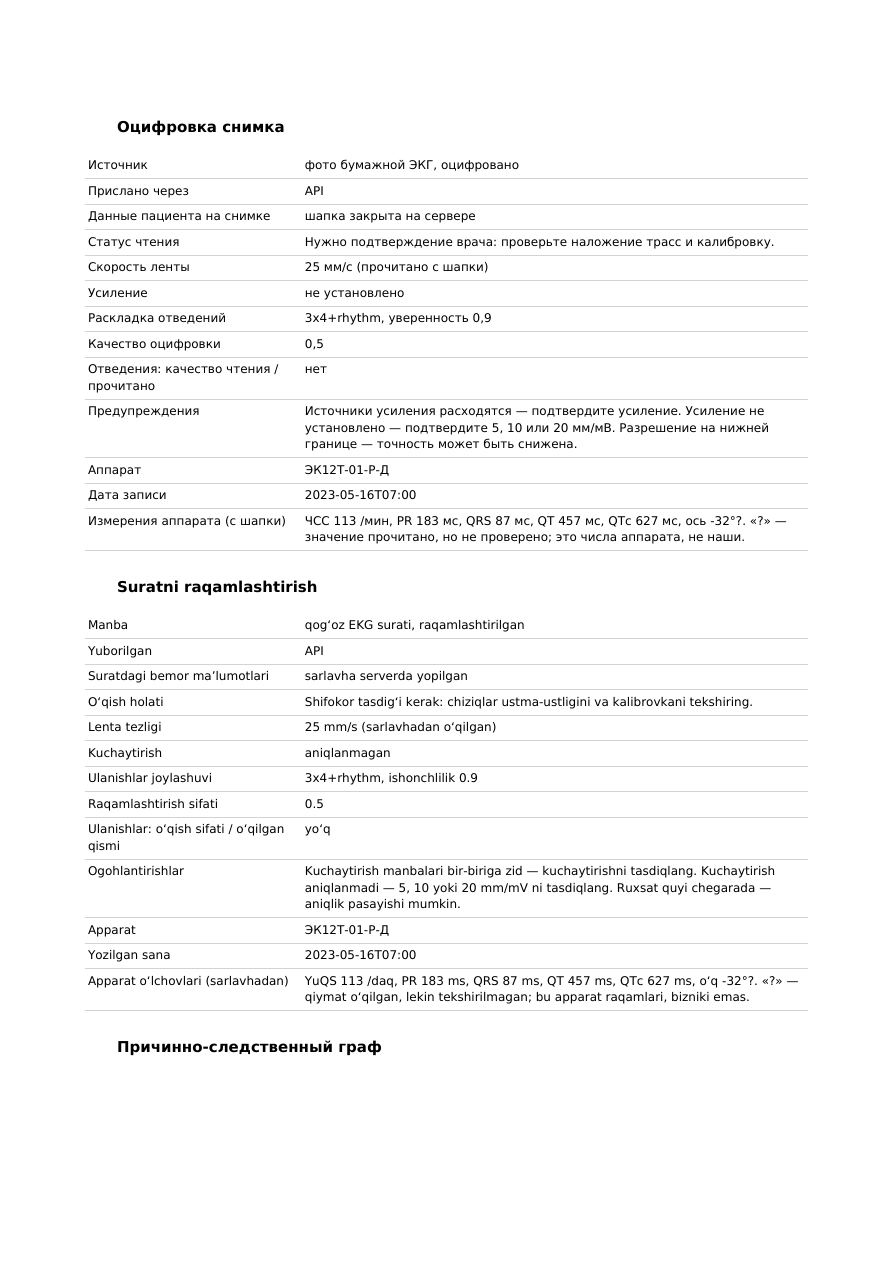
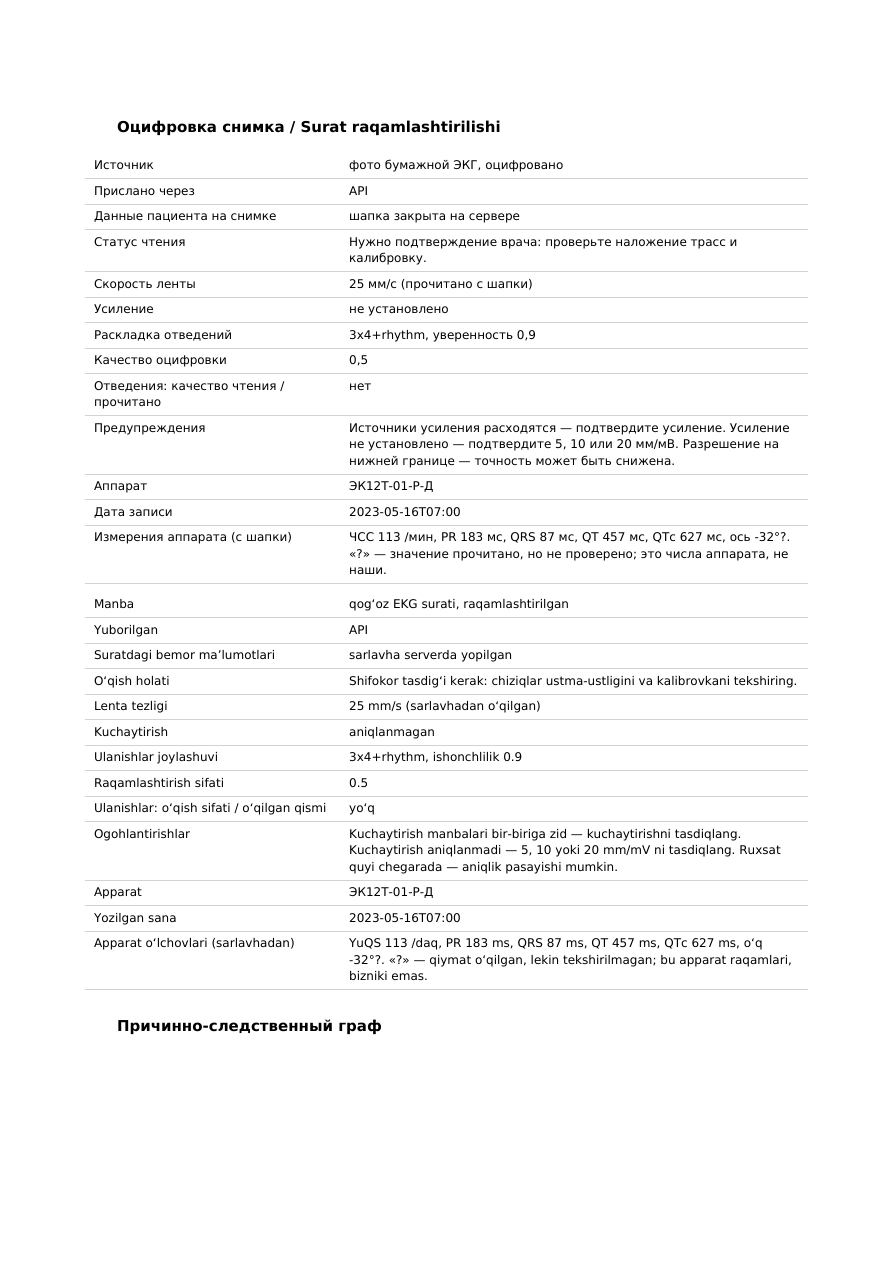
S4: adapter fills Provenance.report_rows (core D184); the service passes the recorder's header to the core (D183); final PDF check 58/58 in PDFium, Poppler, MuPDF
Claude-Session: https://claude.ai/code/session_01HGySTX64bqVYHHvSD3WTWr

Changed region(s): [[0.0907, 0.0926, 0.9071, 0.8337]]

diff --git a/tests/scanner/test_pdf_s4.py b/tests/scanner/test_pdf_s4.py
@@ -48,12 +48,10 @@ def test_the_flags_table_reads_back_in_every_engine(tmp_path, result_factory, sy
 
 
 def test_the_core_report_of_a_scan_opens_everywhere(tmp_path, result_factory, synth_mv):
-    """The doctor's PDF, written by the core from a scanned page as the service sends it. The
-    flags are expected in it once the core prints ``Provenance.report_rows``
-    (reports/scanner/s4/core_integration.diff)."""
+    """The doctor's PDF, written by the core from a scanned page as the service sends it, with
+    every flag in both languages (``Provenance.report_rows``, core D184)."""
     import cv2
 
-    from cardiolens.contracts.signal import Provenance
     from cardiolens.outputs.pdf_report import OVERLAY_NOTE_UZ, write_pdf
     from cardiolens.pipeline import run_pipeline
     from ecgscan.contract.cardiolens_adapter import to_signal_representation
@@ -63,8 +61,6 @@ def test_the_core_report_of_a_scan_opens_everywhere(tmp_path, result_factory, sy
     sig.provenance.overlay_jpeg = cv2.imencode(".jpg", np.full((200, 400, 3), 230, np.uint8))[1].tobytes()
     pdf = tmp_path / "report.pdf"
     write_pdf(run_pipeline(sig), str(pdf))
-    expect = [OVERLAY_NOTE_UZ[:50], "Заключение (RU)", "Xulosa (UZ)"]
-    if "report_rows" in Provenance.model_fields:
-        expect += _expected(res)
+    expect = [OVERLAY_NOTE_UZ[:50], "Заключение (RU)", "Xulosa (UZ)", *_expected(res)]
     out = check(pdf, expect)
     assert out["ok"], {k: v.get("missing", v) for k, v in out["engines"].items()}

diff --git a/reports/scanner/s4/make_report.py b/reports/scanner/s4/make_report.py
@@ -19,6 +19,7 @@ import numpy as np
 from cardiolens.layer1_ingestion import generate_synthetic_ecg
 from cardiolens.outputs.pdf_report import OVERLAY_NOTE_RU, OVERLAY_NOTE_UZ, write_pdf
 from cardiolens.pipeline import run_pipeline
+from cardiolens.telegram.analyze import attach_device_header
 from ecgscan.bench.headers import render_header
 from ecgscan.bench.pdf_check import check
 from ecgscan.bench.render import RenderSpec, render_page
@@ -45,11 +46,14 @@ def main(out: Path) -> int:
     res = scan(page_photo(), hints=ScanHints(client="api"), artifacts_dir=art)
     sig = to_signal_representation(res)
     sig.provenance.overlay_jpeg = (art / "overlay_preview.jpg").read_bytes()
+    attach_device_header(sig, res)                 # as the service does: device_mismatch (D183)
     result = run_pipeline(sig)
     pdf = out / "report.pdf"
     write_pdf(result, str(pdf))
     flags = {lang: scanner_rows(res, lang) for lang in ("ru", "uz")}
     expect = {"overlay": [OVERLAY_NOTE_RU[:60], OVERLAY_NOTE_UZ[:60]], "conclusion": ["Заключение (RU)", "Xulosa (UZ)"]}
+    mismatch = [f for f in result.findings.findings if f.code == "device_mismatch"]
+    expect["device_mismatch"] = [m for f in mismatch for m in (f.label_ru[:40], f.label_uz[:40])]
     for lang, rows in flags.items():
         expect[f"flags_{lang}"] = [s for row in rows for s in row]
     report = check(pdf, [s for v in expect.values() for s in v], out / "pages")

diff --git a/src/ecgscan_service/service.py b/src/ecgscan_service/service.py
@@ -321,14 +321,17 @@ class ScanService:
             raise ScanError(409, f"scan is {row.status}: only an ok or doctor-accepted scan is analysed")
         from cardiolens.api import service as cl_service
         from cardiolens.outputs.conclusion import format_conclusion
+        from cardiolens.telegram.analyze import attach_device_header
         from ecgscan.contract.cardiolens_adapter import to_signal_representation
 
-        sig = to_signal_representation(ScanResult.model_validate(row.result))
+        read = ScanResult.model_validate(row.result)
+        sig = to_signal_representation(read)
         if "trace_overlay_preview" in ((row.result or {}).get("artifacts") or {}):
             try:                     # the page with the read traces, header blanked: the PDF shows it (TZ 18.10)
                 sig.provenance.overlay_jpeg = self.artifact(scan_id, "trace_overlay_preview", actor)[0]
             except ScanError:        # expired: the report goes without the picture
                 pass
+        attach_device_header(sig, read)       # the recorder's printed numbers: device_mismatch (D183)
         analysis_id, result = cl_service.run_and_store(sig, mode=mode, owner=row.owner)
         self.store.set_analysis(scan_id, analysis_id)
         self.store.audit(scan_id, actor, "analyzed", {"analysis_id": analysis_id, "mode": result.report.mode})

diff --git a/src/ecgscan/contract/cardiolens_adapter.py b/src/ecgscan/contract/cardiolens_adapter.py
@@ -17,6 +17,8 @@ from __future__ import annotations
 import numpy as np
 
 from ecgscan.contract.models import DIGITIZED_FLAG, RHYTHM_MISMATCH, STANDARD_LEADS, ScanResult
+from ecgscan.i18n import LANGS
+from ecgscan.report_block import scanner_rows
 
 
 class RejectedScanError(ValueError):
@@ -105,5 +107,7 @@ def to_signal_representation(result: ScanResult):
         signal=signal, sampling_rate_hz=fs, lead_names=list(STANDARD_LEADS), duration_s=n / fs,
         source="image",
         provenance=Provenance(digitized=True, confidence=round(float(result.quality.overall), 3),
-                              lead_windows=windows, sample_mask=_gap_intervals(missing, fs) or None, notes=notes),
+                              lead_windows=windows, sample_mask=_gap_intervals(missing, fs) or None, notes=notes,
+                              # How the photo was read, translated, for the PDF (S4, TZ 18.10, SD-095)
+                              report_rows={lang: scanner_rows(result, lang) for lang in LANGS}),
     )

diff --git a/reports/scanner/s4/report.md b/reports/scanner/s4/report.md
@@ -9,7 +9,7 @@
 |---|---|---|
 | Выгруженный сигнал читается без потерь | CSV и WFDB — **бит в бит**, JSON — тот же объект контракта | `tests/scanner/test_export_s4.py` |
 | PDF открывается на ПК, Android, iOS | PDFium (Chrome, Android), Poppler, MuPDF: **4 страницы у всех, ни одной пустой**. iOS здесь не проверить | [check.json](check.json) |
-| Все флаги видны | **52 из 52** (26 RU + 26 UZ) находят все три движка, при правке ядра | [check.json](check.json), [страница с флагами](flags_page.png) |
+| Все флаги видны | **58 из 58** фраз находят все три движка: 26 RU + 26 UZ строк флагов, расхождение с аппаратом RU и UZ, пояснение к снимку, заключения | [check.json](check.json), [первая страница](first_page.png), [страница с флагами](flags_page.png) |
 
 ## 1. Выгрузка сигнала (SD-094)
 
@@ -32,8 +32,8 @@
 |---|---|
 | Исходный снимок с закрытыми данными пациента | снимок листа с закрытой шапкой (сервер, D136) |
 | Наложение прочитанных трасс | на том же снимке, цвет по качеству, пояснение RU и UZ (ядро, D163) |
-| Извлечённые параметры | строка измерений ядра (сейчас только RU) |
-| Флаги: источник «фото», качество по отведениям, расхождение с аппаратом | таблица «Оцифровка снимка / Suratni raqamlashtirish» — новое. `device_mismatch` — строка ядра |
+| Извлечённые параметры | строка измерений ядра, RU и UZ (D184) |
+| Флаги: источник «фото», качество по отведениям, расхождение с аппаратом | таблица «Оцифровка снимка / Surat raqamlashtirilishi» — новое; расхождение с аппаратом — под строкой измерений и в заключении (ядро, D183) |
 | Заключение RU и UZ | ядро |
 
 Таблица флагов ([как выглядит](flags_page.png)):
@@ -46,13 +46,13 @@
 - предупреждения словами;
 - модель аппарата, дата записи, измерения аппарата с шапки (сомнительные помечены «?»).
 
-**Что нужно от ядра.** PDF пишет ядро, поэтому таблица попадает в отчёт через небольшую правку
-ядра: [core_integration.diff](core_integration.diff), 3 файла, около 30 строк. Правка передана
-главной сессии. Все цифры выше сняты с ней. Без неё PDF открывается так же, но таблицы в нём
-нет. Тест `test_pdf_s4.py` проверяет оба случая.
+**Как попадает в PDF.** PDF пишет ядро. Главная сессия добавила поле `Provenance.report_rows` и
+раздел в `write_pdf` (D184); адаптер сканера заполняет поле строками на обоих языках. Ветка
+главной сессии влита.
 
 **Ещё одно исправление.** PDF из сервиса сканера (`/scans/{id}/analysis`) выходил без снимка
-с трассами: его получал только бот ядра. Теперь сервис передаёт снимок в ядро.
+с трассами и без сверки с аппаратом: их получал только бот ядра. Теперь сервис передаёт в ядро
+и снимок, и числа аппарата с шапки.
 
 ## 3. Проверка PDF (SD-096)
 
@@ -67,27 +67,28 @@
 
 | Движок | Страниц | Не найдено фраз |
 |---|---|---|
-| PDFium | 4 | 0 из 56 |
-| Poppler | 4 | 0 из 56 |
-| MuPDF | 4 | 0 из 56 |
+| PDFium | 4 | 0 из 58 |
+| Poppler | 4 | 0 из 58 |
+| MuPDF | 4 | 0 из 58 |
 
 **Шрифты.** DejaVuSans и DejaVuSans-Bold встроены, с картой Юникода. Helvetica reportlab
 вставляет на каждую страницу, но ни одна буква ею не набрана.
 
 **Флаги в примере настоящие, не подстроенные.** У синтетической шапки свои числа, не совпадающие
 с листом: усиление на шапке ≠ импульсу, ЧСС аппарата 113 при 72 на листе. Поэтому в таблице
-видны «источники усиления расходятся» и «усиление не установлено». Сверка ядра
-(`device_mismatch`) на таком листе должна сработать.
+видны «источники усиления расходятся» и «усиление не установлено», а сверка ядра
+(`device_mismatch`) срабатывает: ЧСС 72 (аппарат 113), PR 164 (183), QRS 70 (87), QT 360 (457).
 
 ## 4. Регрессия
 
-- Тесты сканера проходят: выгрузка 6, флаги 6, PDF 2, плюс весь прежний набор.
-- Те же тесты PDF и флагов проходят и на копии кода с правкой ядра.
+- Все тесты сканера проходят: выгрузка 6, флаги 6, PDF 2, плюс весь прежний набор.
+- После слияния ветки главной сессии (D183, D184) проходят тесты PDF, флагов, выгрузки, адаптера,
+  сервиса и `tests/test_device_mismatch.py`.
 - Распознавание снимков не менялось: стенд не перегонялся.
 
 ## Не проверено
 
 - **iOS (PDFKit)** — открыть `report.pdf` на iPhone. В этой среде PDFKit не запустить.
 - **Узбекские тексты** новых строк — проверить носителем языка, как и прежние.
-- **Правка ядра** — ждёт главную сессию. Там же: узбекские варианты заголовка, строки измерений
-  и пометки о скорости, и строка `device_mismatch`.
+- **Рисунок «Кривая ЭКГ»** ядра для листа 3x4 рисует V1 и V5 за первые 5 с, то есть вне их окон:
+  там почти прямая линия. Это передано главной сессии; к S4 не относится, но врач это увидит.
